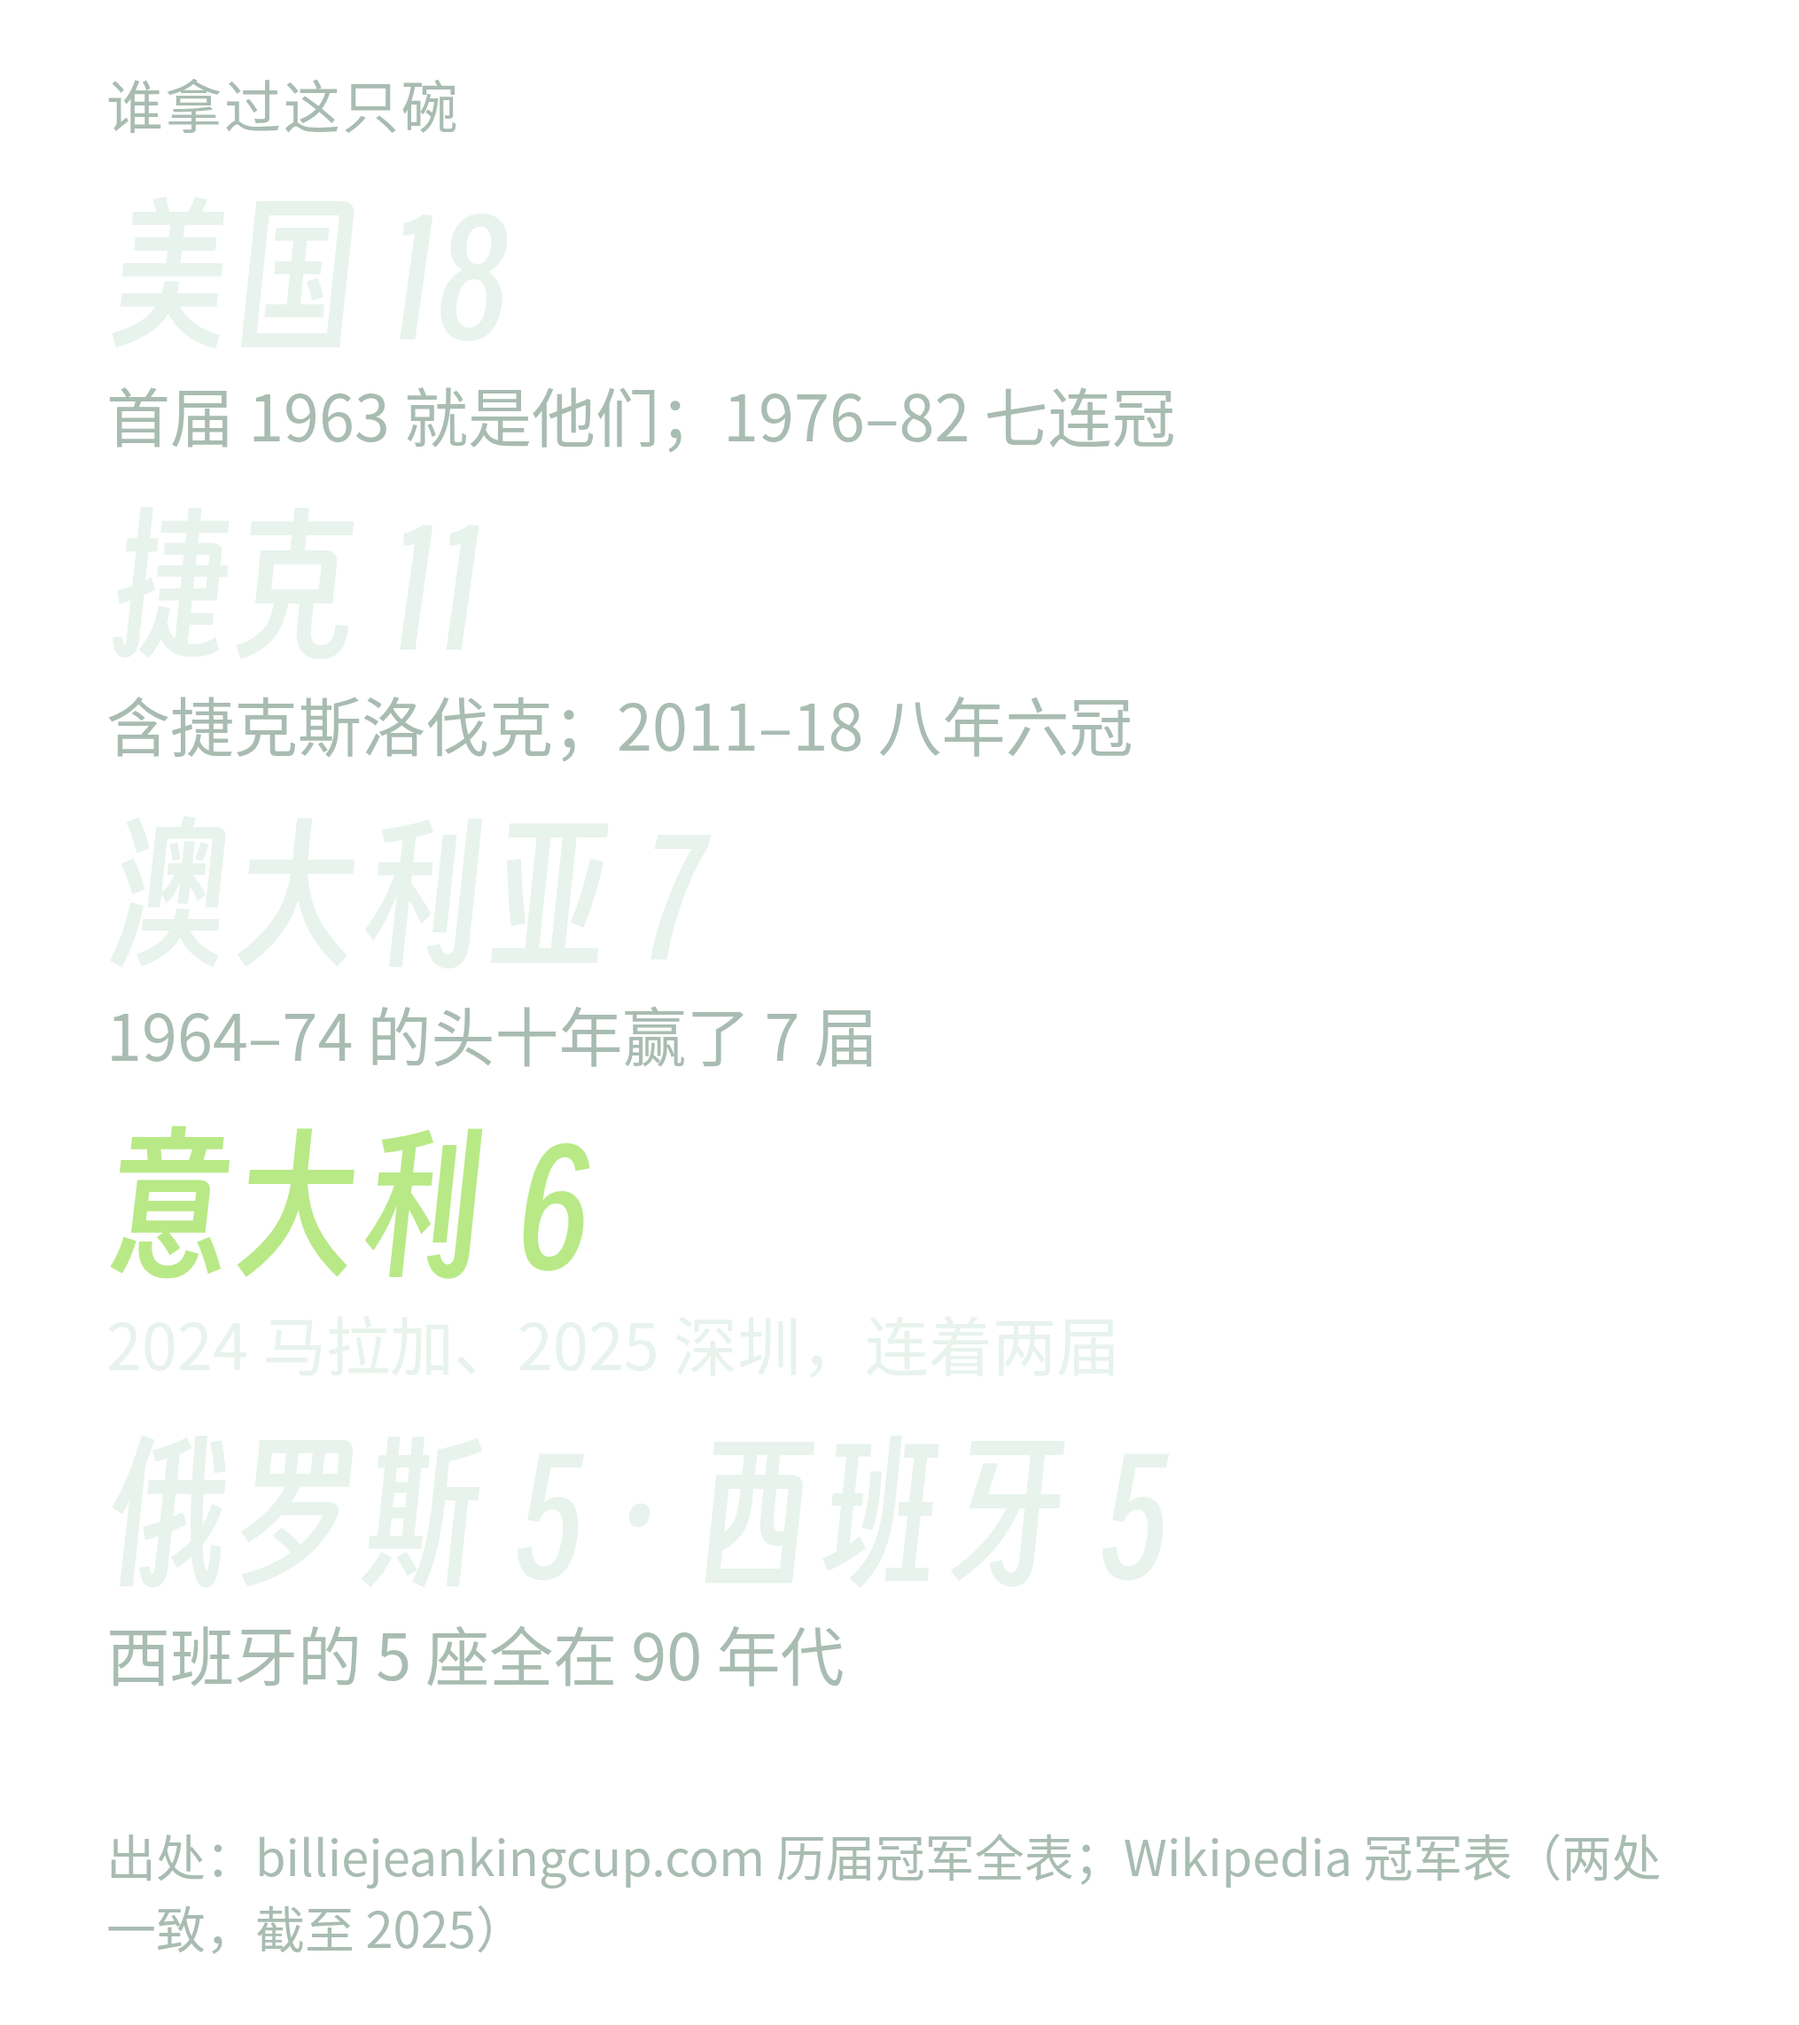
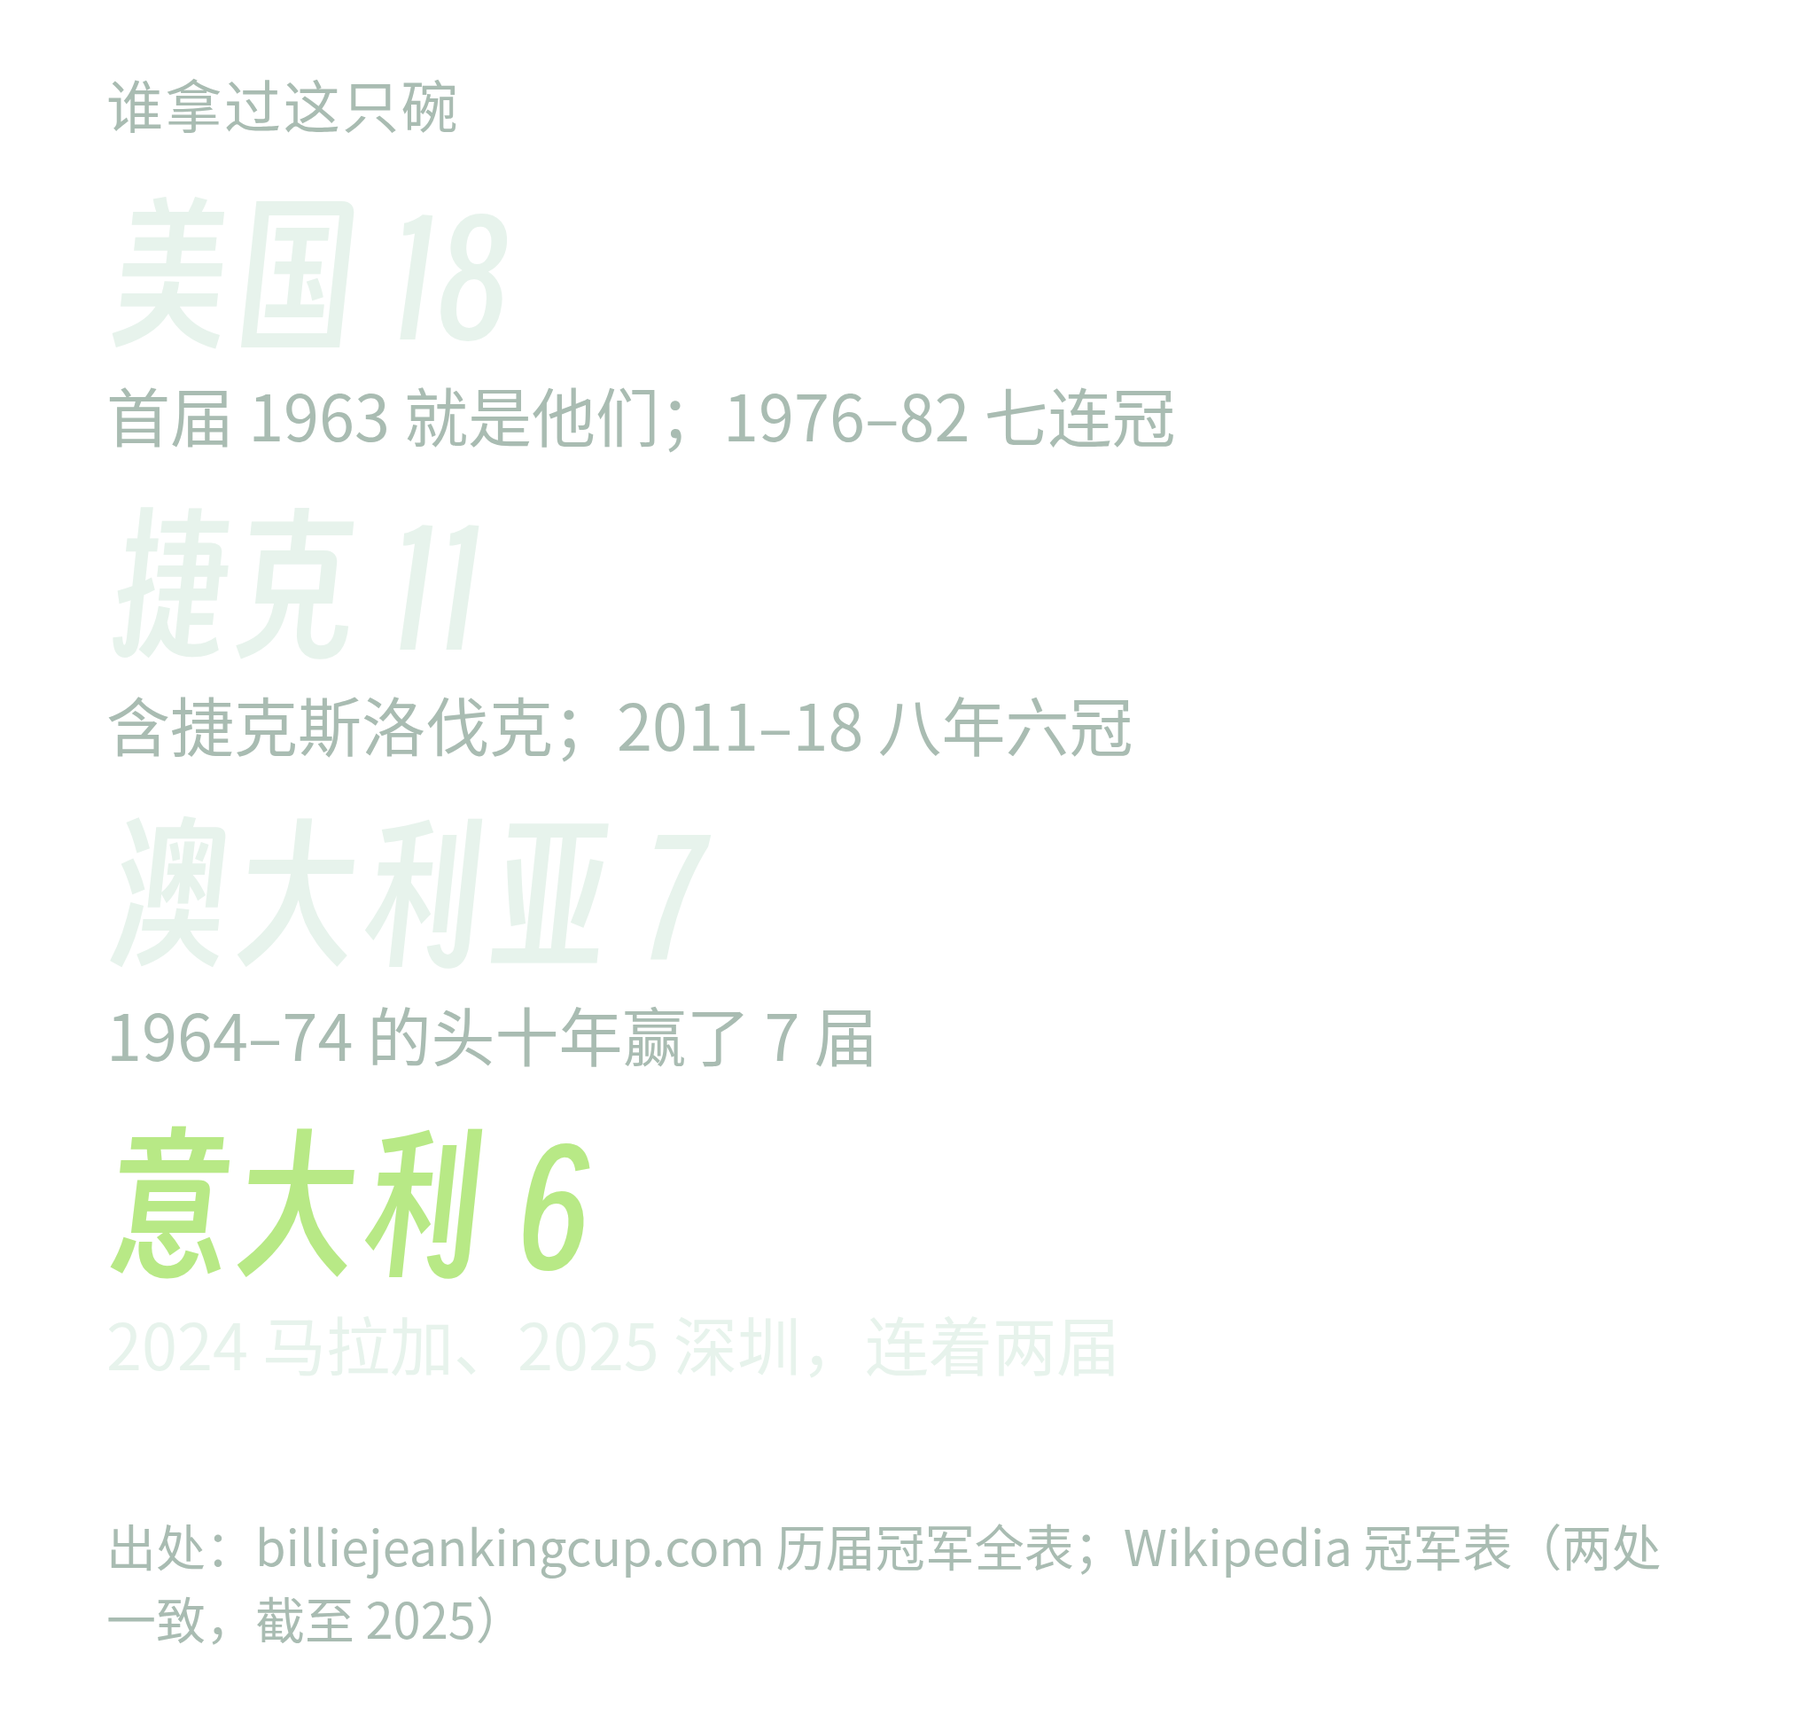
网球有故事：比利·简·金杯介绍片（bjk-cup-story）——spec 25 段、小红书文案、证据卡收成四行、译名表补七个历史人物
六条官方源片（2025 深圳颁奖与决赛、ITF 六十年纪念片、ITF 五个经典时刻、ITF 赛制片、2025 中意集锦复用）
＋ 五张整屏证据卡。本地 --dry-run 绿、--check-narration（edge-tts）每段装得下、无假词、无 4 秒以上哑场；
reel 六个测试文件 478 passed。

Claude-Session: https://claude.ai/code/session_01HCq4ovW7HuXBzivFp3f7tA

diff --git a/src/tennislive/zh/players.py b/src/tennislive/zh/players.py
@@ -471,6 +471,14 @@ PLAYER_ZH: dict[str, str] = {
     "Steffi Graf": "格拉芙",
     "Monica Seles": "塞莱斯",
     "Chris Evert": "埃弗特",
+    # ===== 比利·简·金杯介绍片（bjk-cup-story，2026-09-18）补的历史人物 =====
+    "Arantxa Sanchez Vicario": "桑切斯·维卡里奥",
+    "Conchita Martinez": "康奇塔·马丁内斯",
+    "Francesca Schiavone": "斯齐亚沃尼",
+    "Flavia Pennetta": "佩内塔",
+    "Roberta Vinci": "文奇",
+    "Barbora Strycova": "斯特里科娃",
+    "Bobby Riggs": "里格斯",
     "Martina Hingis": "辛吉斯",
     "Justine Henin": "海宁",
     "Agnieszka Radwanska": "拉德万斯卡",
